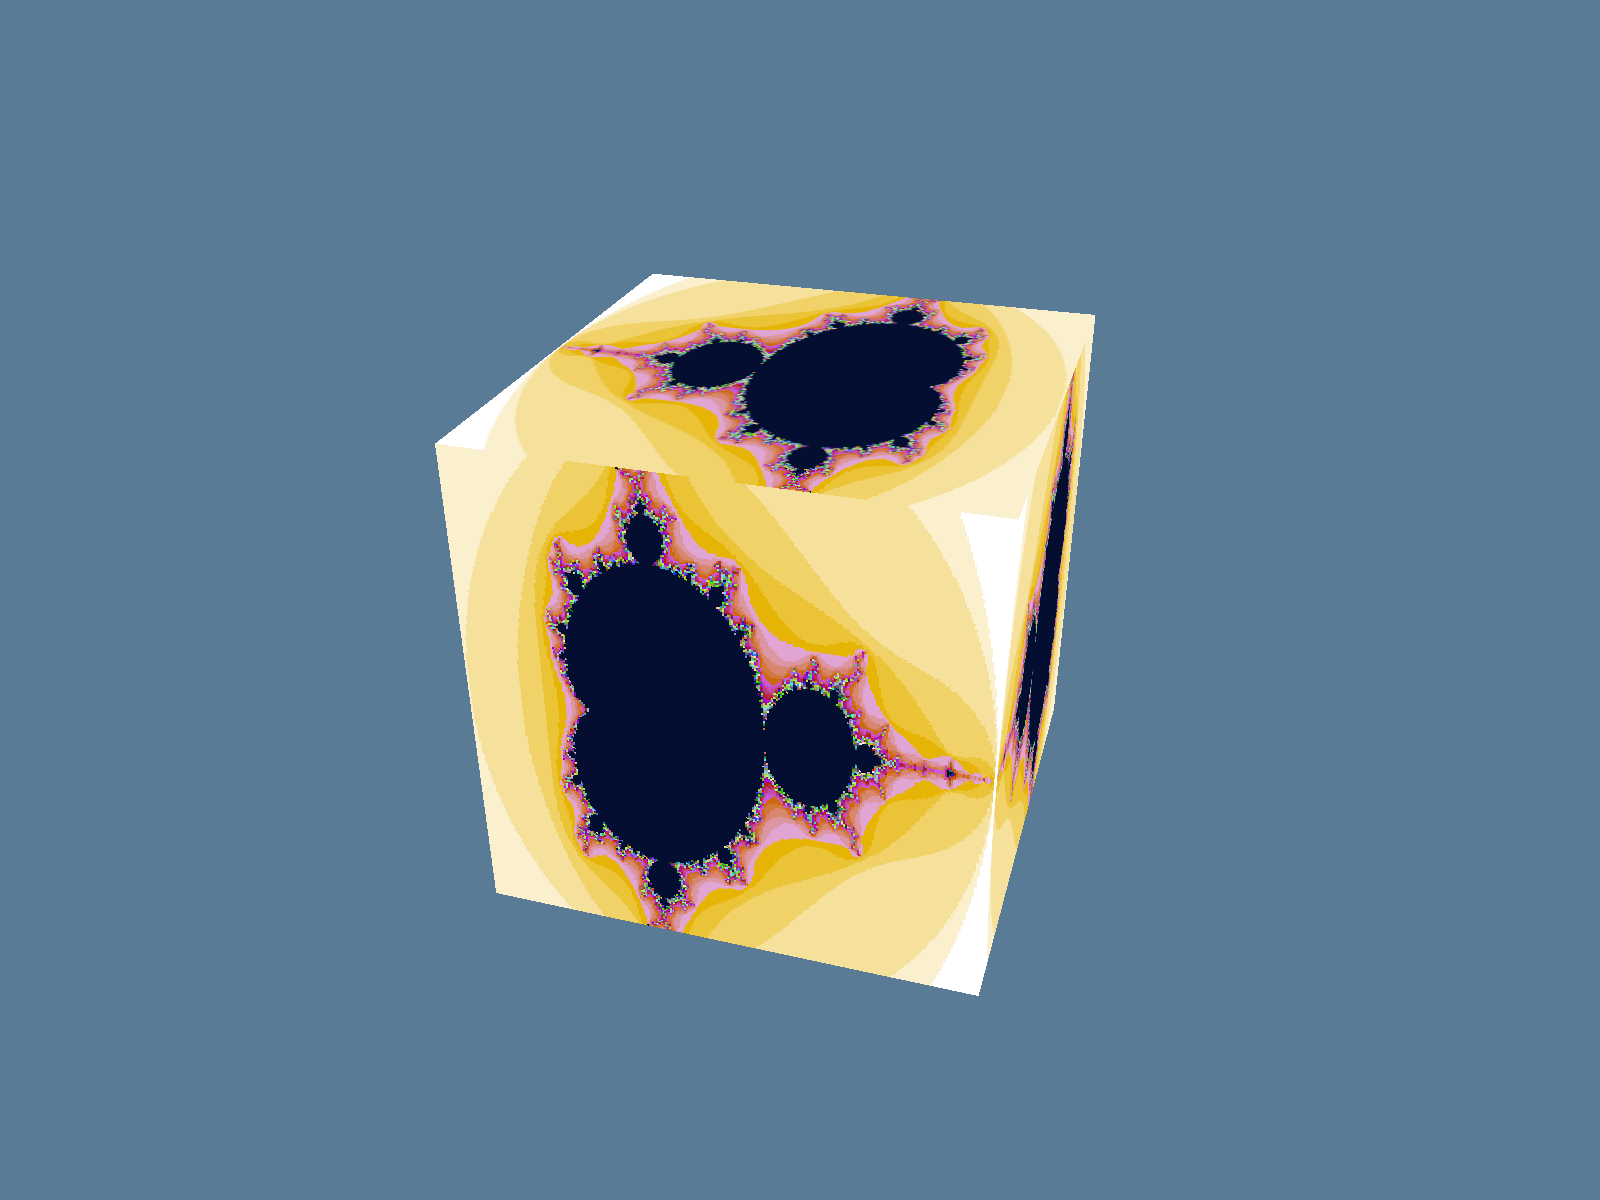
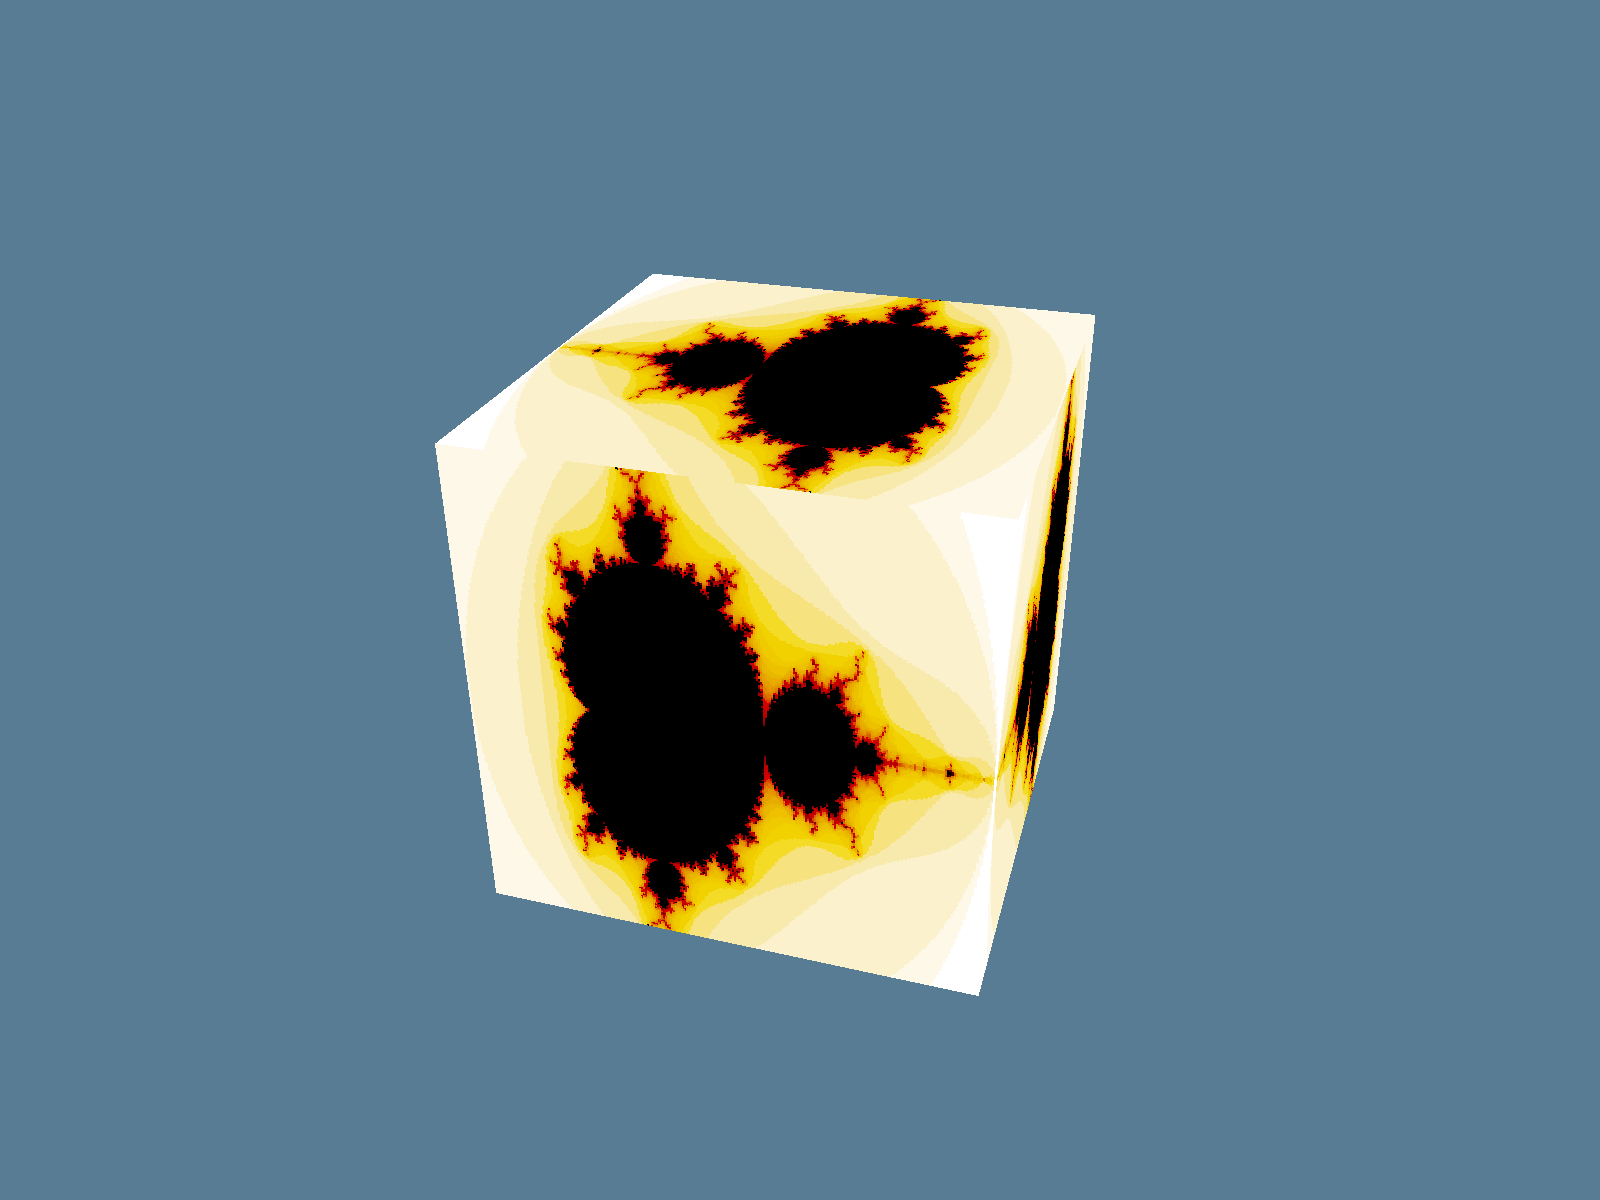
update 0.10.0

Changed region(s): [[0.25, 0.2158, 0.6875, 0.8325]]

diff --git a/cube/mod.ts b/cube/mod.ts
@@ -57,7 +57,7 @@ function createVertices(): {
 }
 
 function createTexels(size: number): Uint8Array {
-  const texels = new Uint8Array(size * size * 4);
+  const texels = new Uint8Array(size * size);
   for (let i = 0; i < size * size; i++) {
     const cx = 3 * (i % size) / (size - 1) - 2;
     const cy = 2 * Math.floor(i / size) / (size - 1) - 1;
@@ -70,15 +70,7 @@ function createTexels(size: number): Uint8Array {
       y = 2.0 * oldX * y + cy;
       count += 1;
     }
-    texels.set(
-      [
-        0xFF - ((count * 5) & ~(~0 << 8)),
-        0xFF - ((count * 15) & ~(~0 << 8)),
-        0xFF - ((count * 50) & ~(~0 << 8)),
-        0xFF,
-      ],
-      i * 4,
-    );
+    texels[i] = count;
   }
   return texels;
 }
@@ -133,12 +125,9 @@ class Cube extends Framework {
         {
           binding: 1,
           visibility: GPUShaderStage.FRAGMENT,
-          texture: {},
-        },
-        {
-          binding: 2,
-          visibility: GPUShaderStage.FRAGMENT,
-          sampler: {},
+          texture: {
+            sampleType: "uint",
+          },
         },
       ],
     });
@@ -156,8 +145,8 @@ class Cube extends Framework {
 
     const texture = this.device.createTexture({
       size: textureExtent,
-      format: "rgba8unorm-srgb",
-      usage: GPUTextureUsage.SAMPLED | GPUTextureUsage.COPY_DST,
+      format: "r8uint",
+      usage: GPUTextureUsage.TEXTURE_BINDING | GPUTextureUsage.COPY_DST,
     });
     const textureView = texture.createView();
     this.device.queue.writeTexture(
@@ -166,15 +155,11 @@ class Cube extends Framework {
       },
       texels,
       {
-        bytesPerRow: 4 * size,
+        bytesPerRow: size,
         rowsPerImage: 0,
       },
       textureExtent,
     );
-
-    const sampler = this.device.createSampler({
-      minFilter: "linear",
-    });
 
     const mxTotal = generateMatrix(
       this.dimensions.width / this.dimensions.height,
@@ -197,10 +182,6 @@ class Cube extends Framework {
         {
           binding: 1,
           resource: textureView,
-        },
-        {
-          binding: 2,
-          resource: sampler,
         },
       ],
     });

diff --git a/mipmap/mod.ts b/mipmap/mod.ts
@@ -141,7 +141,7 @@ class Mipmap extends Framework {
       size: textureExtent,
       mipLevelCount: this.mipLevelCount,
       format: "rgba8unorm-srgb",
-      usage: GPUTextureUsage.SAMPLED | GPUTextureUsage.RENDER_ATTACHMENT |
+      usage: GPUTextureUsage.TEXTURE_BINDING | GPUTextureUsage.RENDER_ATTACHMENT |
         GPUTextureUsage.COPY_DST,
     });
     const textureView = texture.createView();

diff --git a/framework.ts b/framework.ts
@@ -7,7 +7,7 @@ export class Framework {
   static async getDevice(features: GPUFeatureName[] = []): Promise<GPUDevice> {
     const adapter = await navigator.gpu.requestAdapter();
     const device = await adapter?.requestDevice({
-      nonGuaranteedFeatures: features,
+      requiredFeatures: features,
     });
 
     if (!device) {

diff --git a/hello-compute/mod.ts b/hello-compute/mod.ts
@@ -25,7 +25,7 @@ struct PrimeIndices {
 }; // this is used as both input and output for convenience
 
 [[group(0), binding(0)]]
-var<storage> v_indices: [[access(read_write)]] PrimeIndices;
+var<storage, read_write> v_indices: PrimeIndices;
 
 // The Collatz Conjecture states that for any integer n:
 // If n is even, n = n/2
